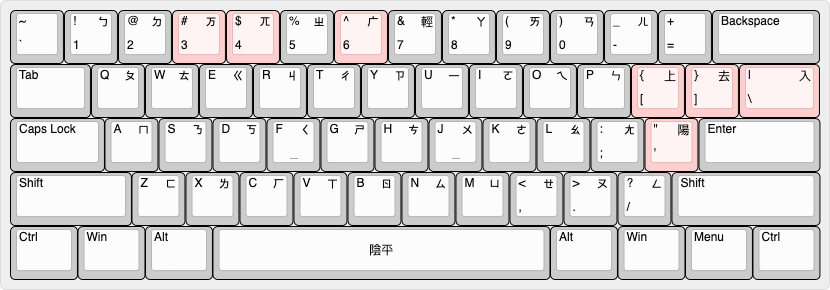
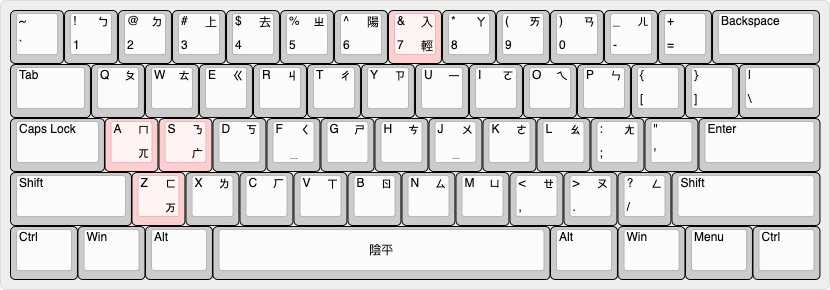
修改說明

diff --git a/README.md b/README.md
@@ -8,8 +8,10 @@
 
 
 ### 目前支援的輸入方案
-- [注音 大千式(改)](#5jup)
+- [注音 大千兼容式](#5jup)
   -  `./bepemefeve_5jup.schema.yaml`
+  - [注音 大千式(改)](#5jup_mod)
+  -  `./bepemefeve_5jup_mod.schema.yaml`
 - [國語羅馬字](#romatzyh)
   - `./bepemefeve_gr.schema.yaml`
   - `./bepemefeve_gr_atonal.schema.yaml`
@@ -28,16 +30,34 @@
 ## 基於注音字母的輸入方案
 
 <a name="5jup"></a>
-### 大千式改
-鍵盤排列類似「大千式」，並作以下修改：
-- 數字`3`、`4`、`6`鍵（原`ˇ`上聲、`ˋ`去聲、`ˊ`陽平）分別用作輸入ㄪ、ㄫ、ㄬ
-- 除陰平聲外，其餘聲調符號移到鍵盤右上角：`'`、`[`、`]`、`\`用作輸入 陽平、上、去、入 四聲
-- 輕音符號可以標在字頭
+### 大千兼容式
+不增加按鍵，兼容現有大千式軟鍵盤：
+- ㄪ：Shift+ㄈ（ㄈ的濁化）
+- ㄬ：Shift+ㄋ（ㄋ的腭化）
+- ㄫ：Shift+ㄇ（用軟腭位置發類似ㄇ的鼻音）
+- 輕聲鍵（數字鍵7）同時兼任入聲鍵：標在字頭爲輕音，標在字尾爲入聲
 
 ![](assets/keyboard-layout-bepemefeve-5jup.png)\
-*「大千式改」鍵盤排列（紅色高亮按鍵不同於標準「大千式」）*
+*「大千兼容式」鍵盤排列（紅色高亮按鍵不同於標準「大千式」）*
 
 配方位置：`./bepemefeve_5jup.schema.yaml`\
+碼表位置：`./bepemefeve.dict.yaml`
+
+<a name="5jup_mod"></a>
+### 大千式改
+鍵盤排列除了聲調部分以外，跟「大千式」完全一致。
+
+若不考慮聲調部分，可以算作兼容現有大千式軟鍵盤
+
+具體是在「大千式」的基礎上作了以下修改：
+- `3`、`4`、`6`鍵（原`ˇ`上聲、`ˋ`去聲、`ˊ`陽平）用作輸入ㄪ、ㄫ、ㄬ
+- `'`、`[`、`]`、`\`用作輸入 陽平、上、去、入 四聲，陰平聲仍用空格鍵
+- 輕音現在亦可以標在字頭
+
+![](assets/keyboard-layout-bepemefeve-5jup-mod.png)\
+*「大千式改」鍵盤排列（紅色高亮按鍵不同於標準「大千式」）*
+
+配方位置：`./bepemefeve_5jup_mod.schema.yaml`\
 碼表位置：`./bepemefeve.dict.yaml`
 
 
